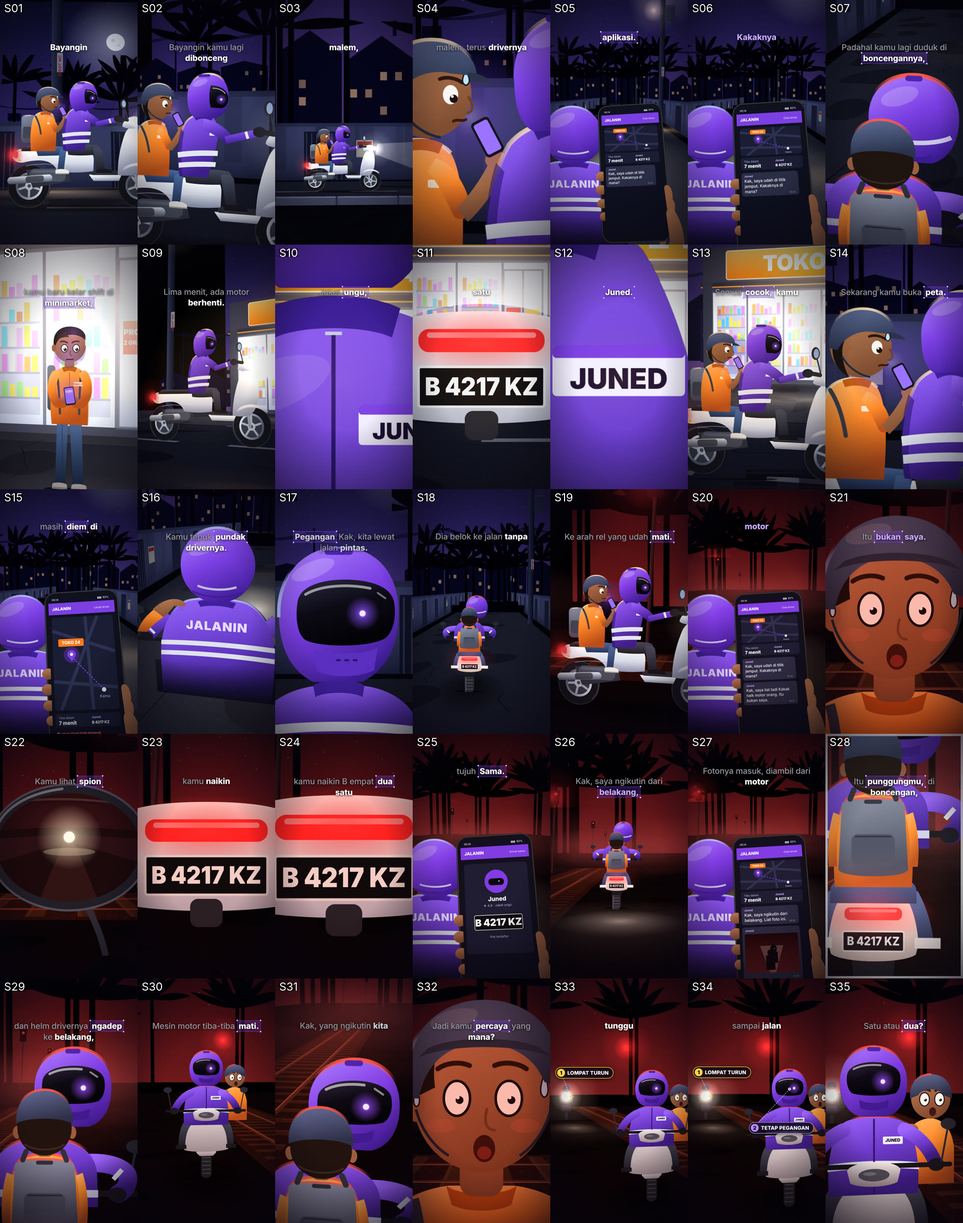
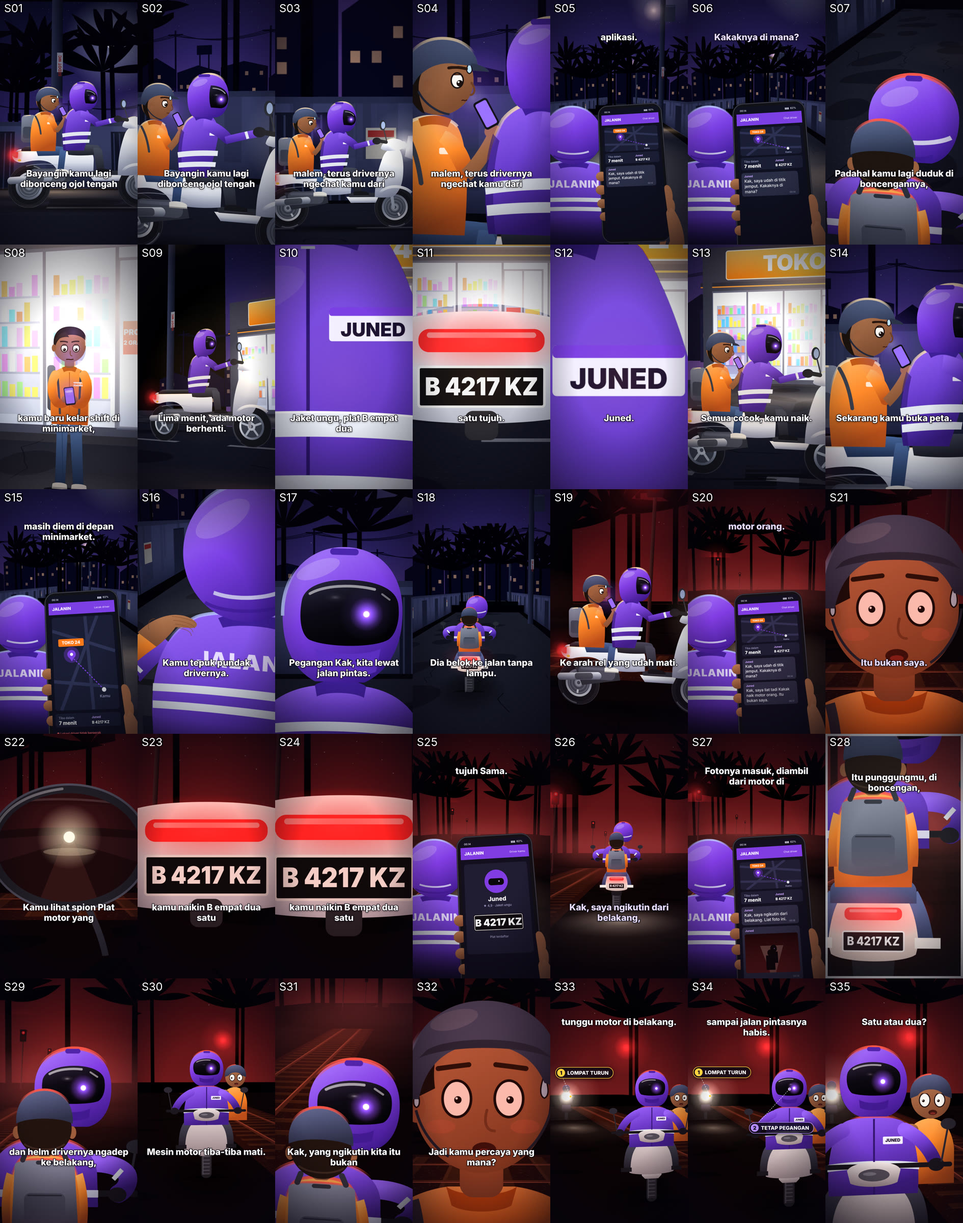
Jalan Pintas EP01 v3 WIP: visual pass in progress
Claude-Session: https://claude.ai/code/session_01B68mnDeubCNurdRCD9AAZh

diff --git a/jalan-pintas/remotion/src/ep/EP01.tsx b/jalan-pintas/remotion/src/ep/EP01.tsx
@@ -44,7 +44,7 @@ const SPECS: Record<string, Spec> = {
   S05: { scene: 'jalanAxis', move: 7, a: POV, pov: 'chat1', povZ: [-0.32, -0.3], shake: 0.003 },
   S06: { scene: 'jalanAxis', move: 7, a: POV, pov: 'chat1', povZ: [-0.3, -0.25], shake: 0.003 },
   S07: { scene: 'jalanAxis', move: 7, a: C([0.32, 2.1, 1.75], [0.05, 1.45, 0], 32), b: C([0.26, 2.05, 1.55], [0.05, 1.47, 0], 32), rider: 'back', shake: 0.008 },
-  S08: { scene: 'tokoSide', world: true, a: C([1.2, 1.45, -2.0], [0.3, 1.3, -6], 38), b: C([0.95, 1.42, -2.7], [0.3, 1.32, -6], 38), stand: true, rider: 'none', shake: 0.005, grade: 'toko' },
+  S08: { scene: 'tokoSide', world: true, a: C([1.2, 1.45, -2.0], [0.3, 1.3, -6], 38), b: C([0.95, 1.42, -2.7], [0.3, 1.32, -6], 38), stand: true, rider: 'none', shake: 0.005, grade: 'toko' , capY: 1500},
   S09: { scene: 'tokoSide', world: true, track: 1, a: C([1.6, 0.55, 3.6], [0, 1.0, 0], 44), b: C([1.5, 0.56, 3.5], [0, 1.0, 0], 44), x: (lt, d) => -7 * Math.pow(1 - Math.min(1, lt / (d * 0.8)), 2.2), rider: 'sideDriver', shake: 0.006, grade: 'toko', cone: true },
   S10: { scene: 'tokoSide', a: C([0.05, 1.0, 1.4], [0.05, 1.0, 0], 34), b: C([0.22, 1.4, 1.75], [0.22, 1.38, 0], 34), ease: 'io', cu: ['jacket', 2.29], rider: 'none', shake: 0.004, grade: 'toko' },
   S11: { scene: 'tokoSide', a: C([0, 0.56, 2.9], [0, 0.5, 0], 34), b: C([0, 0.54, 2.6], [0, 0.5, 0], 34), cu: ['plate', 1.0], rider: 'none', shake: 0.004, grade: 'toko' },
@@ -57,7 +57,7 @@ const SPECS: Record<string, Spec> = {
   S18: { scene: 'jalanAxis', move: 7, dark: true, a: C([0.4, 1.7, 4.2], [0, 1.0, -6], 42), b: C([0.4, 1.8, 6.2], [0, 1.0, -6], 42), rider: 'back', shake: 0.008 },
   S19: { scene: 'relSide', move: 6, a: C([0.9, 1.2, 3.7], [-0.2, 1.05, 0], 40), b: C([0.6, 1.2, 3.35], [-0.2, 1.05, 0], 40), rider: 'side', shake: 0.008, grade: 'rel', cone: true },
   S20: { scene: 'relAxis', move: 6, a: POV, pov: 'chat2', povZ: [-0.32, -0.27], shake: 0.003, grade: 'rel' },
-  S21: { scene: 'relSide', move: 6, a: C([0, 0.94, 2.0], [0, 0.9, 0], 40), b: C([0, 0.93, 1.75], [0, 0.9, 0], 40), cu: ['faceS', 1.71, RED], rider: 'none', shake: 0.005, grade: 'rel' },
+  S21: { scene: 'relSide', move: 6, a: C([0, 0.94, 2.0], [0, 0.9, 0], 40), b: C([0, 0.93, 1.75], [0, 0.9, 0], 40), cu: ['faceS', 1.71, RED], rider: 'none', shake: 0.005, grade: 'rel' , capY: 330},
   S22: { scene: 'relSide', move: 6, a: C([0, 0.68, 2.4], [0, 0.66, 0], 40), b: C([0, 0.68, 2.1], [0, 0.66, 0], 40), cu: ['mirror', 1.29], rider: 'none', shake: 0.004, grade: 'rel' },
   S23: { scene: 'relSide', move: 6, a: C([0, 1.5, 2.8], [0, 2.0, 0], 34), b: C([0, 0.56, 2.8], [0, 0.5, 0], 34), ease: 'whip', cu: ['plate', 1.0, '#ffd8d0'], rider: 'none', shake: 0.006, grade: 'rel' },
   S24: { scene: 'relSide', move: 6, a: C([0, 0.54, 2.7], [0, 0.5, 0], 34), b: C([0, 0.52, 2.35], [0, 0.5, 0], 34), cu: ['plate', 1.0, '#ffd8d0'], rider: 'none', shake: 0.004, grade: 'rel' },
@@ -68,7 +68,7 @@ const SPECS: Record<string, Spec> = {
   S29: { scene: 'relAxis', a: C([0.25, 0.95, 3.0], [0.1, 0.85, 0], 22), b: C([0.2, 1.55, 2.6], [0.12, 1.42, 0], 26), ease: 'out', rider: 'backT', cone: true, grade: 'twist' },
   S30: { scene: 'relAxis', x: (lt) => 3 * (1 - Math.exp(-lt * 1.6)), a: C([0.6, 1.3, -4.6], [0, 1.0, 0], 38), b: C([0.55, 1.3, -4.4], [0, 1.0, 0], 38), rider: 'front', hl: (lt) => lt < 0.22 || (lt > 0.3 && lt < 0.36), shake: 0.008, grade: 'rel' },
   S31: { scene: 'relAxis', a: C([0.32, 1.95, 1.7], [0.1, 1.5, 0], 34), b: C([0.28, 1.92, 1.5], [0.1, 1.51, 0], 34), rider: 'back', swapAt: 63.77, shake: 0.005, grade: 'rel' },
-  S32: { scene: 'relSide', a: C([0, 0.93, 1.95], [0, 0.9, 0], 40), b: C([0, 0.92, 1.62], [0, 0.9, 0], 40), cu: ['faceS', 1.71, RED], rider: 'none', shake: 0.005, grade: 'rel' },
+  S32: { scene: 'relSide', a: C([0, 0.93, 1.95], [0, 0.9, 0], 40), b: C([0, 0.92, 1.62], [0, 0.9, 0], 40), cu: ['faceS', 1.71, RED], rider: 'none', shake: 0.005, grade: 'rel' , capY: 330},
   S33: { scene: 'relAxis', a: C([1.4, 1.4, -4.6], [0, 1.2, 2], 36), b: C([1.3, 1.4, -4.4], [0, 1.2, 2], 36), rider: 'front', follower: 13, labels: 1, shake: 0.005, grade: 'rel' , capY: 300},
   S34: { scene: 'relAxis', a: C([1.3, 1.4, -4.4], [0, 1.2, 2], 36), b: C([1.2, 1.4, -4.2], [0, 1.2, 2], 36), rider: 'front', follower: 13, labels: 2, shake: 0.005, grade: 'rel' , capY: 300},
   S35: { scene: 'relAxis', a: C([1.2, 1.4, -4.2], [0, 1.2, 2], 36), b: C([-0.22, 1.36, -1.7], [-0.37, 1.3, 0], 32), ease: 'io', rider: 'front', follower: 13, labels: 2, shake: 0.004, grade: 'rel' , capY: 300},
@@ -105,16 +105,56 @@ const OnCamera: React.FC<{ children: React.ReactNode }> = ({ children }) => {
 
 const aspect = (t: THREE.Texture) => { const im: any = t.image; return im.width / im.height; };
 
+// ---------- living faces + visors ----------
+/** Kamu's face, redrawn each frame on a small canvas over the sprite. Sprite px → metres at 700 px/m. */
+const FaceLayer: React.FC<{ view: FaceView; sw: number; sh: number; dy: number; mood: Mood; gt: number; tint?: string }> = ({ view, sw, sh, dy, mood, gt, tint = '#ffffff' }) => {
+  const { c, tex } = useMemo(() => {
+    const c = document.createElement('canvas'); c.width = Math.round(view.w * view.k); c.height = Math.round(view.h * view.k);
+    const tex = new THREE.CanvasTexture(c); tex.colorSpace = THREE.SRGBColorSpace; tex.generateMipmaps = false; tex.minFilter = THREE.LinearFilter; return { c, tex };
+  }, [view]);
+  drawFace(c.getContext('2d')!, view, faceAt(gt, mood)); tex.needsUpdate = true;
+  const w = view.w / 700, h = view.h / 700;
+  const x = (view.x0 + view.w / 2 - sw / 2) / 700, y = (sh - (view.y0 + view.h / 2)) / 700 + dy;
+  return (
+    <mesh position={[x, y, 0.004]} renderOrder={9}>
+      <planeGeometry args={[w, h]} /><meshBasicMaterial map={tex} color={tint} transparent depthWrite={false} toneMapped={false} />
+    </mesh>
+  );
+};
+
+/** Creepy lines: the purple pin dot on the visor flickers; otherwise it glows steadily. A soft glint drifts on the visor. */
+const CREEPY: [number, number][] = [[31.23, 33.94], [56.66, 60.26], [62.12, 66.04], [68.27, 77.74]];
+const dotAt = (gt: number) => {
+  const creepy = CREEPY.some(([a, b]) => gt >= a && gt <= b);
+  const n = Math.sin(gt * 37.1) * Math.sin(gt * 11.3 + 1.7) * Math.sin(gt * 5.3);
+  return creepy ? 0.55 + 0.45 * Math.abs(n) + (Math.sin(gt * 61) > 0.93 ? 0.4 : 0) : 0.8 + 0.08 * Math.sin(gt * 2.1);
+};
+const Visor: React.FC<{ t: Tex; p: V3; gt: number; s?: number }> = ({ t, p, gt, s = 1 }) => (
+  <group position={p}>
+    <Add tex={t.glow} p={[0, 0, 0.006]} s={[0.16 * s, 0.16 * s]} color="#9a5cff" opacity={dotAt(gt)} />
+    <Add tex={t.glow} p={[-0.07 * s + Math.sin(gt * 0.7) * 0.025 * s, 0.045 * s, 0.006]} s={[0.07 * s, 0.03 * s]} color="#ffffff" opacity={0.35 + 0.15 * Math.sin(gt * 1.3)} />
+  </group>
+);
+
+/** Scrolling tyre tread (back / front views). */
+const Tread: React.FC<{ t: Tex; p: V3; w: number; h: number; dist: number }> = ({ t, p, w, h, dist }) => {
+  const tex = useMemo(() => { const x = t.tread.clone(); x.wrapS = x.wrapT = THREE.RepeatWrapping; x.repeat.set(1, h / 0.09); x.needsUpdate = true; return x; }, [t.tread, h]);
+  tex.offset.y = dist / 0.09;
+  return <mesh position={p} renderOrder={9}><planeGeometry args={[w, h]} /><meshBasicMaterial map={tex} toneMapped={false} /></mesh>;
+};
+
 // ---------- riders ----------
-const SideRiders: React.FC<{ t: Tex; A: V3; driverOnly?: boolean; spin: number; bob: number; cone?: boolean; warm?: boolean }> = ({ t, A, driverOnly, spin, bob, cone, warm }) => (
+const SideRiders: React.FC<{ t: Tex; A: V3; driverOnly?: boolean; spin: number; speed: number; bob: number; cone?: boolean; warm?: boolean; gt: number; mood: Mood }> = ({ t, A, driverOnly, spin, speed, bob, cone, warm, gt, mood }) => (
   <group position={[A[0], bob, A[2]]}>
     <mesh position={[0, 0.0, 0.02]} rotation={[-Math.PI / 2, 0, 0]} renderOrder={6}><planeGeometry args={[2.6, 0.8]} /><meshBasicMaterial map={t.blob} transparent opacity={0.75} depthWrite={false} /></mesh>
     {[-0.671, 0.614].map((x) => (
-      <mesh key={x} position={[x, 0.244, -0.003]} rotation={[0, 0, -spin]} renderOrder={7}>
-        <planeGeometry args={[0.514, 0.514]} /><meshBasicMaterial map={t.wheel} transparent alphaTest={0.02} toneMapped={false} />
+      <mesh key={x} position={[x, 0.244, -0.003]} rotation={[0, 0, speed > 2 ? -spin * 0.12 : -spin]} renderOrder={7}>
+        <planeGeometry args={[0.514, 0.514]} /><meshBasicMaterial map={speed > 2 ? t.wheelBlur : t.wheel} transparent alphaTest={0.02} toneMapped={false} />
       </mesh>
     ))}
     <Sprite tex={driverOnly ? t.sideDriver : t.side} p={[0, -0.057, 0]} h={2.0} order={8} color={warm ? '#fff4ea' : '#ffffff'} />
+    {!driverOnly && <group position={[0, headBobAt(gt), 0]}><FaceLayer view={VIEW_SIDE} sw={1600} sh={1400} dy={-0.057} mood={mood} gt={gt} tint={warm ? '#fff4ea' : '#ffffff'} /></group>}
+    <Visor t={t} p={[0.086, 1.303, 0]} gt={gt} s={0.8} />
     <Add tex={t.glow} p={[0.73, 0.99, 0.05]} s={[0.9, 0.9]} color="#fff3d0" opacity={0.95} />
     <Add tex={t.glow} p={[-0.87, 0.6, 0.05]} s={[0.6, 0.6]} color="#ff2a2a" opacity={0.8} />
     {cone && <group position={[0.75, 0.98, 0.02]} rotation={[0, 0, -Math.PI / 2 - 0.16]}><Add tex={t.cone} p={[0, 2.1, 0]} s={[2.0, 4.2]} color="#fff1cf" opacity={0.26} /></group>}
@@ -122,25 +162,42 @@ const SideRiders: React.FC<{ t: Tex; A: V3; driverOnly?: boolean; spin: number; 
   </group>
 );
 
-const BackRiders: React.FC<{ t: Tex; A: V3; turned: boolean; bob: number }> = ({ t, A, turned, bob }) => (
+const BackRiders: React.FC<{ t: Tex; A: V3; turned: boolean; bob: number; dist: number; gt: number }> = ({ t, A, turned, bob, dist, gt }) => (
   <group position={[A[0], bob, A[2]]}>
     <mesh position={[0, 0.01, -0.2]} rotation={[-Math.PI / 2, 0, 0]} renderOrder={6}><planeGeometry args={[1.3, 2.6]} /><meshBasicMaterial map={t.blob} transparent opacity={0.7} depthWrite={false} /></mesh>
+    <Tread t={t} p={[0, 0.158, 0.004]} w={0.126} h={0.22} dist={dist} />
     <Sprite tex={turned ? t.backT : t.back} p={[0, -0.023, 0]} h={2.0} order={8} />
+    {turned && <Visor t={t} p={[0.191, 1.483, 0]} gt={gt} />}
     <Add tex={t.glow} p={[0, 0.6, 0.06]} s={[1.0, 0.6]} color="#ff2a2a" opacity={0.6} />
   </group>
 );
 
-const FrontRiders: React.FC<{ t: Tex; A: V3; lit: boolean }> = ({ t, A, lit }) => (
+const FrontRiders: React.FC<{ t: Tex; A: V3; lit: boolean; dist: number; moving: boolean; gt: number; mood: Mood }> = ({ t, A, lit, dist, moving, gt, mood }) => (
   <group position={A}>
     <mesh position={[0, 0.01, 0]} rotation={[-Math.PI / 2, 0, 0]} renderOrder={6}><planeGeometry args={[1.4, 2.4]} /><meshBasicMaterial map={t.blob} transparent opacity={0.7} depthWrite={false} /></mesh>
-    <Sprite tex={lit ? t.frontLit : t.front} p={[0, -0.026, 0]} h={2.0} ry={Math.PI} order={8} />
+    <group rotation={[0, Math.PI, moving ? Math.sin(gt * 9) * 0.006 : 0]}>
+      <Tread t={t} p={[0, 0.167, 0.004]} w={0.109} h={0.243} dist={-dist} />
+      <Sprite tex={lit ? t.frontLit : t.front} p={[0, -0.026, 0]} h={2.0} order={8} />
+      <group position={[0, headBobAt(gt), 0]}><FaceLayer view={VIEW_PEEK} sw={1000} sh={1400} dy={-0.026} mood={mood} gt={gt} /></group>
+      <Visor t={t} p={[0.057, 1.411, 0]} gt={gt} />
+    </group>
     {lit && <Add tex={t.glow} p={[0, 0.81, -0.08]} s={[1.6, 1.6]} color="#fff3d0" opacity={0.95} />}
     {lit && <Add tex={t.glow} p={[0, 0.02, -3]} s={[4, 6]} color="#fff1cf" opacity={0.5} r={[-Math.PI / 2, 0, 0]} />}
   </group>
 );
 
+// ---------- moods (micro-expressions) ----------
+const KEYT: number[] = (timing as any).words.filter((w: any) => w.who === 'NARATOR' && ['diem', 'cocok', 'pintas', 'lampu', 'mati', 'spion', 'sama', 'belakangmu', 'punggungmu', 'ngadep', 'percaya'].includes(String(w.w).toLowerCase().replace(/[^a-z]/g, ''))).map((w: any) => w.s);
+const SCARY: [number, number][] = [[40.56, 41.98], [56.66, 60.26], [66.04, 68.27], [75.88, 77.74]];
+const moodFor = (id: string): Mood => {
+  const n = Number(id.slice(1));
+  const base = n >= 20 ? 'scared' : 'worried';
+  const beats = [...KEYT.map((t) => ({ t, kind: 'brow' as const })), { t: 40.56, kind: 'scare' as const }, { t: 56.66, kind: 'scare' as const }, { t: 60.26, kind: 'scare' as const }, { t: 6.01, kind: 'part' as const }, { t: 37.84, kind: 'part' as const }];
+  const look: [number, number] = id === 'S08' ? [0, 0.7] : ['S30', 'S33', 'S34', 'S35'].includes(id) ? [-0.5, 0] : ['S21', 'S32'].includes(id) ? [0.25, -0.1] : [0.35, 0.55];
+  return { base, look, beats, scary: SCARY };
+};
+
 // ---------- captions ----------
-const KEYS = new Set(['ojol', 'aplikasi', 'jemput', 'boncengannya', 'minimarket', 'ungu', 'juned', 'cocok', 'peta', 'diem', 'pundak', 'pintas', 'lampu', 'mati', 'bukan', 'spion', 'sama', 'belakang', 'foto', 'punggungmu', 'ngadep', 'arahmu', 'percaya', 'lompat', 'pegangan', 'dua']);
 type W = { w: string; s: number; e: number; who: string };
 const PAGES = (() => {
   const raw: W[] = (timing as any).words.map((x: any) => ({ w: x.w, s: x.s, e: x.e, who: x.who }));
@@ -155,7 +212,8 @@ const PAGES = (() => {
   }
   const pages: { words: W[]; s: number; e: number }[] = []; let cur: W[] = [];
   ws.forEach((w) => {
-    if (cur.length && (cur[0].who !== w.who || cur.length >= 6)) { pages.push({ words: cur, s: cur[0].s, e: 0 }); cur = []; }
+    const sentenceStart = /^[A-Z]/.test(w.w) && !['Juned', 'Juned,', 'Juned.', 'B', 'Kak', 'Kak,', 'Kakak', 'Kakaknya'].includes(w.w);
+    if (cur.length && (cur[0].who !== w.who || cur.length >= 5 || (sentenceStart && cur.length >= 2))) { pages.push({ words: cur, s: cur[0].s, e: 0 }); cur = []; }
     cur.push(w);
     if (/[.?]$/.test(w.w) || (/,$/.test(w.w) && cur.length >= 3)) { pages.push({ words: cur, s: cur[0].s, e: 0 }); cur = []; }
   });
@@ -167,10 +225,7 @@ const PAGES = (() => {
 const Captions: React.FC<{ gt: number; top: number }> = ({ gt, top }) => {
   const pg = PAGES.find((p) => gt >= p.s - 0.02 && gt < p.e);
   if (!pg) return null;
-  let active = 0; pg.words.forEach((w, i) => { if (gt >= w.s - 0.02) active = i; });
-  const words: CapWord[] = pg.words.map((w) => ({ w: w.w, who: w.who as any }));
-  const kIdx = pg.words.findIndex((w, i) => i <= active && KEYS.has(w.w.toLowerCase().replace(/[^a-z]/g, '')));
-  return <Caption words={words} active={active} keyword={kIdx >= 0 ? kIdx : undefined} top={top} />;
+  return <Caption words={pg.words.map((w) => ({ w: w.w, who: w.who as any }))} top={top} />;
 };
 
 // ---------- choice labels ----------
@@ -217,10 +272,11 @@ const useAssets = () => {
     (async () => {
       await Promise.all(['500 34px Inter', '700 26px Inter', '800 44px Inter', '900 140px Inter'].map((f) => document.fonts.load(f)));
       const L = async (s: string, k: number) => svgTex(s, k);
+      const [wheelB, tread, helmBack, trees4, trees5] = await Promise.all([svgTex(wheelBlur(), 1), svgTex(treadStrip(), 1), svgTex(helmetBackPov(), 1), Promise.resolve(treesTex(15, '#0c0f1e')), Promise.resolve(treesTex(21, '#0a0d1a'))]);
       const [side, sideDriver, back, backT, front, frontLit, driverBack, hand, whl, stand, faceW, faceS, helm, jacket, tap, mirror, plate, follower] = await Promise.all([
-        L(ridersSide({ wheels: false }), 1.4), L(ridersSide({ wheels: false, passenger: false }), 1.4), L(ridersBack({ turned: false }), 1.4), L(ridersBack({ turned: true }), 1.4),
-        L(ridersFront({ headlight: false }), 1.6), L(ridersFront({ headlight: true }), 1.4), L(driverBackPov(), 1), L(handPhone(), 1.2), L(wheel(), 1),
-        L(kamuStand(), 1.5), L(faceCU('worried'), 1.3), L(faceCU('scared'), 1.3), L(helmetCU(), 1.3), L(jacketCU(), 1.3), L(tapHand(), 1), L(mirrorCU(), 1.3), L(plateCU(), 1.3), L(followerFront(), 1)]);
+        L(ridersSide({ wheels: false, face: false }), 1.4), L(ridersSide({ wheels: false, passenger: false }), 1.4), L(ridersBack({ turned: false, tread: false }), 1.4), L(ridersBack({ turned: true, tread: false }), 1.4),
+        L(ridersFront({ headlight: false, face: false, tread: false }), 1.6), L(ridersFront({ headlight: true, face: false, tread: false }), 1.4), L(driverBackPov({ helmet: false }), 1), L(handPhone(), 1.2), L(wheel(), 1),
+        L(kamuStand({ face: false }), 1.5), L(faceCU('worried', false), 1.3), L(faceCU('scared', false), 1.3), L(helmetCU(), 1.3), L(jacketCU(), 1.3), L(tapHand(), 1), L(mirrorCU(), 1.3), L(plateCU(), 1.3), L(followerFront(), 1)]);
       const m1 = { text: 'Kak, saya udah di titik jemput. Kakaknya di mana?', time: '00.14' };
       const m2 = { text: 'Kak, saya liat tadi Kakak naik motor orang. Itu bukan saya.', time: '00.17' };
       const m3 = { text: 'Kak, saya ngikutin dari belakang. Liat foto ini.', time: '00.18' };
@@ -231,6 +287,7 @@ const useAssets = () => {
       ng.putImageData(id, 0, 0); setNoise(nc.toDataURL());
       const tx: Tex = {
         side, sideDriver, back, backT, front, frontLit, driverBack, hand, wheel: whl, stand, faceW, faceS, helm, jacket, tap, mirror, plate, follower, kerb,
+        wheelBlur: wheelB, tread, helmBack, trees4, trees5, skyFar2: skylineTex(11, '#10122a', '#ffc870', 0.22), trees3b: treesTex(27, '#140708'),
         chat1: chatScreen2([m1]), chat2: chatScreen2([m1, m2]), photo: chatScreen2([m3, { photo: true, time: '00.18' }]), map: mapScreen(), info: infoScreen(),
         sky: skyTex('#0a0c2a', '#2a2160', '#5a3a7a'), skyFar: skylineTex(4, '#0e1024', '#ffcf7a', 0.28), skyNear: skylineTex(9, '#141634', '#ffd28a', 0.2),
         trees: treesTex(5, '#0b0e1c'), trees2: treesTex(8, '#0d1020'), trees3: treesTex(12, '#120607'), skyRed: skyTex('#120406', '#4a1014', '#7a2020', false, 7),
@@ -263,6 +320,9 @@ export const EP01: React.FC = () => {
   const moving = !!s.move || !!s.x;
   const bob = moving ? Math.sin(gt * 40) * 0.004 : 0;
   const spin = dist / 0.245;
+  const speed = s.move ?? (s.x ? Math.abs(s.x(lt + 0.04, d) - s.x(lt, d)) / 0.04 : 0);
+  const mood = moodFor(shot.id);
+  const tapK = s.tap ? ease(Math.min(1, Math.max(0, (lt - 0.6) / 0.5)), 'io') : 0;
   const hl = s.hl ? s.hl(lt) : true;
   const grade = s.grade ?? (s.scene.startsWith('rel') ? 'rel' : s.scene.startsWith('toko') ? 'toko' : 'jalan');
   const turnedNow = s.rider === 'backT' || (s.swapAt !== undefined && gt >= s.swapAt);
@@ -287,12 +347,19 @@ export const EP01: React.FC = () => {
         {s.scene === 'jalanAxis' && <JalanAxis t={t} z0={A[2]} dark={s.dark} />}
         {s.scene === 'relAxis' && <RelAxis t={t} z0={A[2]} />}
 
-        {(s.rider === 'side' || s.rider === 'sideDriver') && <SideRiders t={t} A={A} driverOnly={s.rider === 'sideDriver'} spin={spin} bob={bob} cone={s.cone} warm={grade === 'toko'} />}
-        {(s.rider === 'back' || s.rider === 'backT') && <BackRiders t={t} A={A} turned={turnedNow} bob={bob} />}
-        {(s.rider === 'front' || s.rider === 'frontLit') && <FrontRiders t={t} A={A} lit={s.rider === 'frontLit' || (s.hl ? hl : false)} />}
-        {s.stand && <Sprite tex={t.stand} p={[0.3, 0, -6]} h={2.0} order={8} color="#fff6ee" />}
+        {(s.rider === 'side' || s.rider === 'sideDriver') && <SideRiders t={t} A={A} driverOnly={s.rider === 'sideDriver'} spin={spin} speed={speed} bob={bob} cone={s.cone} warm={grade === 'toko'} gt={gt} mood={mood} />}
+        {(s.rider === 'back' || s.rider === 'backT') && <BackRiders t={t} A={A} turned={turnedNow} bob={bob} dist={dist} gt={gt} />}
+        {(s.rider === 'front' || s.rider === 'frontLit') && <FrontRiders t={t} A={A} lit={s.rider === 'frontLit' || (s.hl ? hl : false)} dist={dist} moving={speed > 0.3} gt={gt} mood={mood} />}
+        {s.stand && <group position={[0.3, 0, -6]}>
+          <Sprite tex={t.stand} p={[0, 0, 0]} h={2.0} order={8} color="#fff6ee" />
+          <group position={[0, headBobAt(gt), 0]}><FaceLayer view={VIEW_STAND} sw={700} sh={1400} dy={0} mood={mood} gt={gt} tint="#fff6ee" /></group>
+        </group>}
         {s.stand && <Add tex={t.glow} p={[0.36, 1.66, -5.95]} s={[0.9, 0.9]} color="#a57bff" opacity={0.35} />}
-        {cu && <Sprite tex={cu} p={[A[0], 0, A[2]]} h={s.cu![1]} color={s.cu![2] ?? '#ffffff'} order={8} />}
+        {cu && <group position={[A[0], 0, A[2]]} rotation={[0, 0, s.cu![0] === 'helm' ? Math.sin(gt * 0.9) * 0.03 : 0]}>
+          <Sprite tex={cu} p={[0, s.cu![0].startsWith('face') ? headBobAt(gt) * 2 : 0, 0]} h={s.cu![1]} color={s.cu![2] ?? '#ffffff'} order={8} />
+          {s.cu![0].startsWith('face') && <group position={[0, headBobAt(gt) * 2, 0]}><FaceLayer view={VIEW_CU} sw={1000} sh={1200} dy={0} mood={mood} gt={gt} tint={s.cu![2] ?? '#ffffff'} /></group>}
+          {s.cu![0] === 'helm' && <Visor t={t} p={[0.2, 1.0, 0]} gt={gt} s={2.6} />}
+        </group>}
         {/* follower behind the riders (front views) */}
         {s.follower !== undefined && <>
           <Sprite tex={t.follower} p={[A[0] + 0.2, -0.03, A[2] + s.follower]} h={2.0} ry={Math.PI} order={7} />
@@ -304,9 +371,13 @@ export const EP01: React.FC = () => {
         {/* POV: the driver's back ahead, the hand with the phone on the camera */}
         {s.pov && <>
           <Sprite tex={t.driverBack} p={[A[0] - 0.2, 0.75, A[2] - 1.05]} h={1.05} order={10} />
+          {/* the helmet is its own layer so the driver can react (S16: tiny turn toward the tap) */}
+          <mesh position={[A[0] - 0.2 - 0.025 * tapK, 1.506 - 0.004 * tapK, A[2] - 1.047]} rotation={[0, 0, 0.06 * tapK]} scale={[1 - 0.06 * tapK, 1, 1]} renderOrder={11}>
+            <planeGeometry args={[0.392, 0.392]} /><meshBasicMaterial map={t.helmBack} transparent alphaTest={0.02} toneMapped={false} />
+          </mesh>
           <Add tex={t.glow} p={[A[0] + 0.1, 0.02, A[2] - 5]} s={[5, 10]} color="#fff0cc" opacity={0.75} r={[-Math.PI / 2, 0, 0]} />
         </>}
-        {s.tap && <Sprite tex={t.tap} p={[A[0] - 0.47, 1.14 + 0.02 * Math.abs(Math.sin(lt * 9)), A[2] - 1.0]} h={0.35} order={12} />}
+        {s.tap && <Sprite tex={t.tap} p={[A[0] - 0.47 - 0.12 * (1 - ease(Math.min(1, lt / 0.35), 'io')), 1.14 + 0.035 * Math.abs(Math.sin(Math.max(0, lt - 0.35) * 7)) - 0.05 * (1 - ease(Math.min(1, lt / 0.35), 'io')), A[2] - 1.0]} h={0.35} order={12} />}
         {s.pov && s.pov !== 'none' && (
           <OnCamera>
             <group position={[0.02, -0.08, povZ]} rotation={[-0.15, -0.06, 0.05]}>
@@ -319,7 +390,7 @@ export const EP01: React.FC = () => {
       <Grade kind={grade} lt={lt} noise={noise} flash={swapFlash} />
       {lab1 && <Label n={1} text="LOMPAT TURUN" at={lab1} box={[clampX(lab1[0] - 170, 470), clampY(lab1[1] - 230)]} color="#FFD23F" pop={pop1} />}
       {lab2 && <Label n={2} text="TETAP PEGANGAN" at={lab2} box={[clampX(lab2[0] - 260, 560), clampY(lab2[1] + 260)]} color="#B48CFF" pop={pop2} />}
-      <Captions gt={gt} top={s.pov && s.pov !== 'none' ? 250 : 330} />
+      <Captions gt={gt} top={s.capY ?? (s.pov && s.pov !== 'none' ? 250 : 1320)} />
     </AbsoluteFill>
   );
 };

diff --git a/jalan-pintas/remotion/src/ep/sets25.tsx b/jalan-pintas/remotion/src/ep/sets25.tsx
@@ -7,12 +7,12 @@ export type Tex = Record<string, THREE.Texture>;
 const aspect = (t: THREE.Texture) => { const im: any = t.image; return im.width / im.height; };
 
 /** Flat sprite standing on the ground: p = bottom centre, h = height (m). */
-export const Sprite: React.FC<{ tex: THREE.Texture; p: V3; h: number; color?: string; opacity?: number; ry?: number; fog?: boolean; order?: number }> =
-  ({ tex, p, h, color = '#ffffff', opacity = 1, ry = 0, fog = true, order }) => {
+export const Sprite: React.FC<{ tex: THREE.Texture; p: V3; h: number; color?: string; opacity?: number; ry?: number; fog?: boolean; order?: number; flip?: boolean }> =
+  ({ tex, p, h, color = '#ffffff', opacity = 1, ry = 0, fog = true, order, flip }) => {
     const w = h * aspect(tex);
     return (
       <group position={p} rotation={[0, ry, 0]}>
-        <mesh position={[0, h / 2, 0]} renderOrder={order}>
+        <mesh position={[0, h / 2, 0]} renderOrder={order} scale={[flip ? -1 : 1, 1, 1]}>
           <planeGeometry args={[w, h]} />
           <meshBasicMaterial map={tex} color={color} transparent opacity={opacity} alphaTest={0.02} fog={fog} toneMapped={false} />
         </mesh>
@@ -71,8 +71,8 @@ export const JalanSide: React.FC<{ t: Tex; x0: number; lamps?: boolean }> = ({ t
       <fog attach="fog" args={['#121438', 14, 70]} />
       <Back tex={t.sky} p={[x0 * 0.9, -14, -95]} h={80} />
       <Back tex={t.skyFar} p={[x0 * 0.6 - 6, -0.5, -46]} h={14} color="#8d88c8" />
-      <Sprite tex={t.trees} p={[X - 30, 0, -12]} h={9} color="#2e3360" />
-      <Sprite tex={t.trees2} p={[X + 12, 0, -14]} h={8} color="#2e3360" />
+      <Back tex={t.skyFar2} p={[x0 * 0.6 + 30, -0.5, -52]} h={12} color="#7f7ab8" />
+      {[-48, -18, 12, 42].map((dx, i) => <Sprite key={dx} tex={[t.trees, t.trees4, t.trees2, t.trees5][(Math.round(X / 18) + i) & 3]} p={[X + dx, 0, -11 - (i % 2) * 3]} h={7.5 + ((i * 7) % 3)} color={i % 2 ? '#2a2f58' : '#30356a'} flip={i % 2 === 1} />)}
       <Flat tex={t.dirt} p={[X, -0.01, -10]} s={[220, 40]} rep={[40, 8]} color="#3a3a4a" />
       <Flat tex={t.asphalt} p={[X, 0, 0]} s={[5, 220]} rep={[1, 30]} color="#9a9ec0" rz={Math.PI / 2} />
       <Strip tex={t.wallL} p={[X, 0.75, -2.9]} s={[220, 1.5]} rep={22} color="#9aa0c6" />
@@ -114,8 +114,7 @@ export const RelSide: React.FC<{ t: Tex; x0: number }> = ({ t, x0 }) => {
       <color attach="background" args={['#1a0607']} />
       <fog attach="fog" args={['#2a0b0d', 9, 50]} />
       <Back tex={t.skyRed} p={[x0 * 0.9, -14, -95]} h={80} />
-      <Sprite tex={t.trees3} p={[X - 20, 0, -16]} h={12} color="#5a1c1e" />
-      <Sprite tex={t.trees3} p={[X + 14, 0, -12]} h={10} color="#3a1012" />
+      {[-44, -14, 16, 46].map((dx, i) => <Sprite key={dx} tex={i % 2 ? t.trees3b : t.trees3} p={[X + dx, 0, -12 - (i % 3) * 3]} h={9 + (i % 3) * 1.5} color={i % 2 ? '#4a1416' : '#5a1c1e'} flip={i > 1} />)}
       <Flat tex={t.dirt} p={[X, -0.01, -10]} s={[220, 40]} rep={[44, 8]} color="#5a3632" />
       <Flat tex={t.rail} p={[X, 0, -2.4]} s={[2.4, 220]} rep={[1, 24]} color="#c98a7a" rz={Math.PI / 2} />
       {[-60, -30, 0, 30, 60].map((dx) => (
@@ -139,8 +138,8 @@ export const JalanAxis: React.FC<{ t: Tex; z0: number; dark?: boolean }> = ({ t,
       <Back tex={t.sky} p={[0, -12, z0 - 95]} h={80} />
       <Back tex={t.skyFar} p={[0, -0.5, z0 - 50]} h={14} color="#8d88c8" />
       <Back tex={t.sky} p={[0, -12, z0 + 95]} h={80} ry={Math.PI} />
-      <Sprite tex={t.trees} p={[-7.5, 0, z0 - 26]} h={8} color="#2e3360" />
-      <Sprite tex={t.trees2} p={[8.5, 0, z0 - 20]} h={7} color="#2e3360" />
+      <Sprite tex={t.trees4} p={[-7.5, 0, z0 - 26]} h={8} color="#2e3360" />
+      <Sprite tex={t.trees5} p={[8.5, 0, z0 - 20]} h={7} color="#2e3360" flip />
       <Flat tex={t.dirt} p={[0, -0.01, Z]} s={[40, 200]} rep={[8, 40]} color="#2c2c38" />
       <Flat tex={t.asphalt2} p={[0, 0, Z]} s={[5, 200]} rep={[1, 26]} color="#a2a6c2" />
       {[-1, 1].map((s) => <Strip key={s} tex={s < 0 ? t.wallL : t.wallR} p={[s * 2.9, 0.75, Z]} s={[200, 1.5]} ry={-s * Math.PI / 2} rep={20} color="#9aa0c6" />)}
@@ -158,7 +157,7 @@ export const RelAxis: React.FC<{ t: Tex; z0: number }> = ({ t, z0 }) => {
       <Back tex={t.skyRed} p={[0, -12, z0 - 95]} h={80} />
       <Back tex={t.skyRed} p={[0, -12, z0 + 95]} h={80} ry={Math.PI} />
       <Sprite tex={t.trees3} p={[-6, 0, z0 - 30]} h={12} color="#5a1c1e" />
-      <Sprite tex={t.trees3} p={[9, 0, z0 - 22]} h={10} color="#3a1012" />
+      <Sprite tex={t.trees3b} p={[9, 0, z0 - 22]} h={10} color="#3a1012" flip />
       <Sprite tex={t.trees3} p={[6, 0, z0 + 26]} h={11} color="#4a1416" ry={Math.PI} />
       <Flat tex={t.dirt} p={[0, -0.01, Z]} s={[40, 200]} rep={[8, 40]} color="#5a3632" />
       <Flat tex={t.rail} p={[-2.1, 0, Z]} s={[2.4, 200]} rep={[1, 22]} color="#c98a7a" />

diff --git a/jalan-pintas/remotion/src/look3/face.ts b/jalan-pintas/remotion/src/look3/face.ts
@@ -120,4 +120,4 @@ export const drawFace = (g: CanvasRenderingContext2D, v: FaceView, p: FaceP) => 
 export const VIEW_SIDE: FaceView = { kind: 'side', k: 2.2, x0: 470, y0: 432, w: 120, h: 130, eyes: [[522, 472]], eyeS: 1, brows: [{ a: [548, 446], b: [498, 438] }], browW: 8, mouth: [542, 528], mouthS: 0.55, skin: '#a86f4b' };
 export const VIEW_STAND: FaceView = { kind: 'front', k: 2, x0: 270, y0: 280, w: 180, h: 170, eyes: [[318, 348], [404, 348]], eyeS: 0.8, brows: [{ a: [340, 308], b: [290, 300] }, { a: [374, 308], b: [424, 300] }], browW: 9, mouth: [358, 428], mouthS: 0.8, skin: '#b07450' };
 export const VIEW_CU: FaceView = { kind: 'front', k: 1.1, x0: 300, y0: 405, w: 420, h: 420, eyes: [[410, 560], [600, 560]], eyeS: 1.6, brows: [{ a: [454, 458], b: [342, 462] }, { a: [552, 458], b: [662, 462] }], browW: 18, mouth: [510, 744], mouthS: 1.5, skin: '#b07450' };
-export const VIEW_PEEK: FaceView = { kind: 'front', k: 2, x0: 690, y0: 444, w: 150, h: 112, eyes: [[730, 474], [800, 474]], eyeS: 0.75, mouth: [768, 530], mouthS: 0.7, skin: '#b07450' };
+export const VIEW_PEEK: FaceView = { kind: 'front', k: 2, x0: 690, y0: 444, w: 150, h: 112, eyes: [[730, 474], [800, 474]], eyeS: 0.75, browW: 0, mouth: [768, 530], mouthS: 0.7, skin: '#b07450' };
